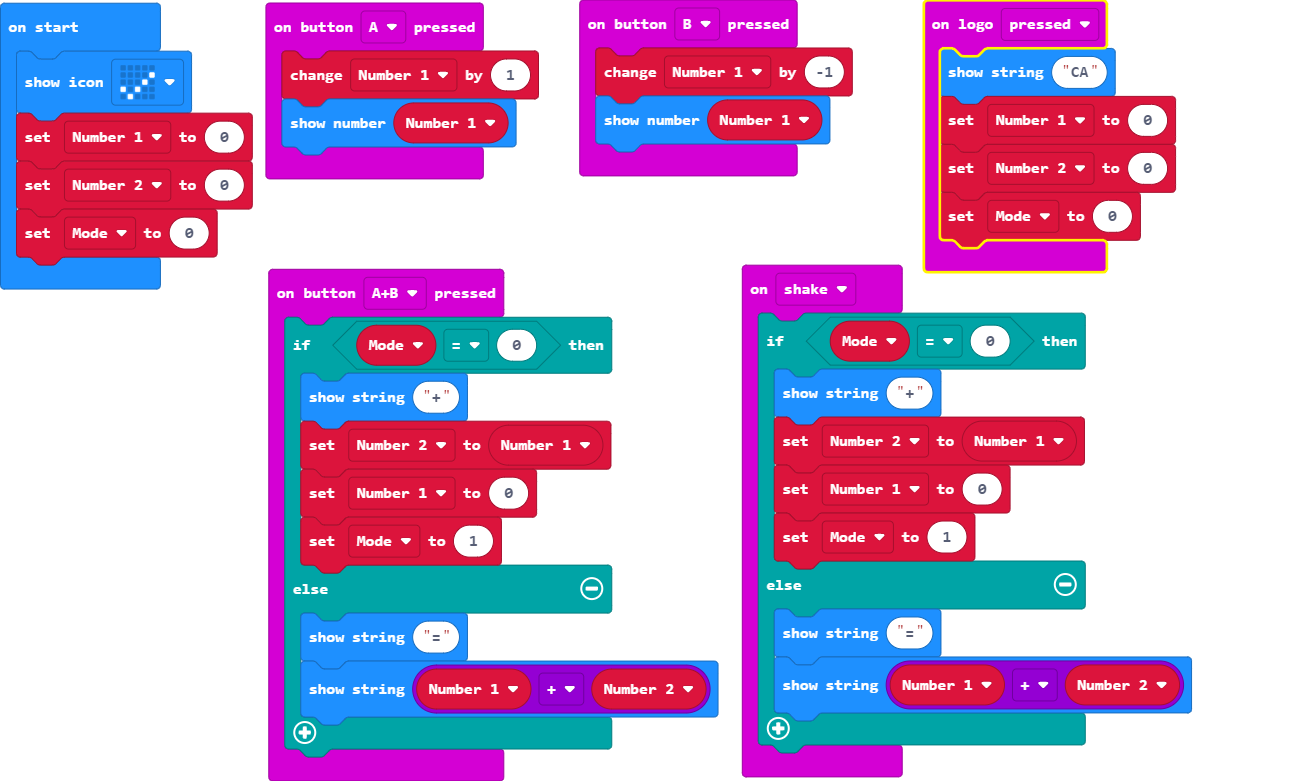
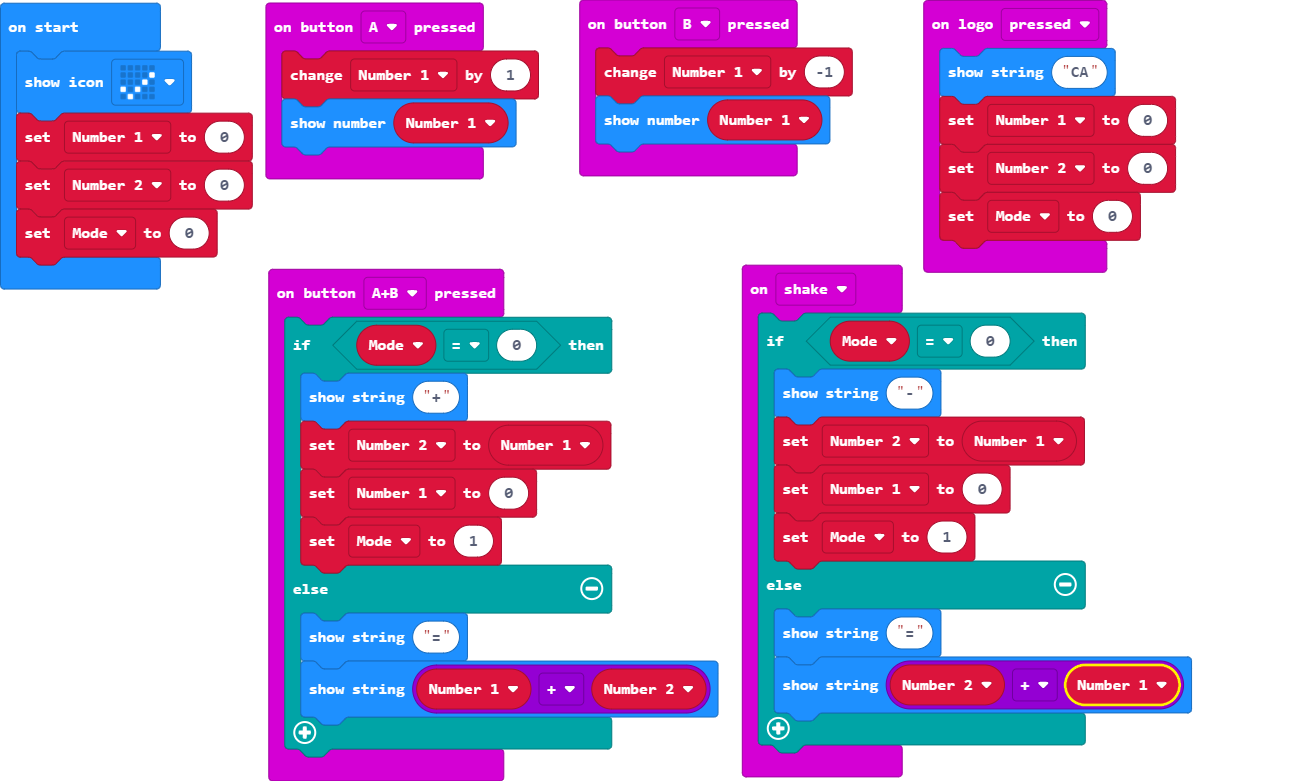
Update main.blocks, main.ts

diff --git a/main.ts b/main.ts
@@ -19,13 +19,13 @@ input.onButtonPressed(Button.B, function () {
 })
 input.onGesture(Gesture.Shake, function () {
     if (Mode == 0) {
-        basic.showString("+")
+        basic.showString("-")
         Number_2 = Number_1
         Number_1 = 0
         Mode = 1
     } else {
         basic.showString("=")
-        basic.showString("" + (Number_1 + Number_2))
+        basic.showString("" + (Number_2 + Number_1))
     }
 })
 input.onLogoEvent(TouchButtonEvent.Pressed, function () {
